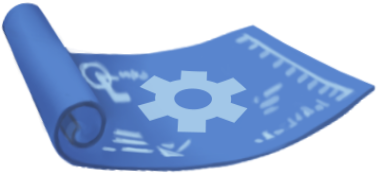
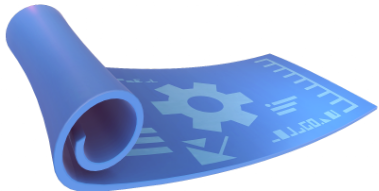
spaceship

diff --git a/SnakeAsianLeague/wwwroot/css/NFTindex/NFTindex_Scholar.css b/SnakeAsianLeague/wwwroot/css/NFTindex/NFTindex_Scholar.css
@@ -464,23 +464,15 @@
     box-shadow: inset 0px 0px 15px 5px rgb(172 159 252 / 70%);
 }
 
-
 .blueprint-type-BG:hover .item-blueprint{
     filter: drop-shadow(0px 0px 15px rgba(172, 159, 252, 0.7));
 }
-
-@keyframes item-icon {
-    0% {
-        transform: translateY(0px);
-    }
-    50% {
-        transform: translateY(-10px);    
-    }
-    100% {
-        transform: translateY(0px);    
-    }
+#blueprint-type-BG-spaceship:hover{
+    box-shadow: inset 0px 0px 15px 5px rgba(159, 209, 252, 0.7);
 }
-
+#blueprint-type-BG-spaceship:hover .item-blueprint{
+    filter: drop-shadow(0px 0px 15px rgba(159, 209, 252, 0.7));
+}
 
 .item-light{
     display: block;
@@ -524,13 +516,28 @@
     }
 }
 
+#item-light-blue{
+    /* left: 55%; */
+    bottom: 48px;
+}
+
 .item-icon{
     position: absolute;
-    transition: all .2s ease-in-out;
     z-index: 2;
     width: 80%;
     transition: all .2s ease-in-out;
     animation: item-icon 5s linear infinite;
+}
+@keyframes item-icon {
+    0% {
+        transform: translateY(0px);
+    }
+    50% {
+        transform: translateY(-10px);    
+    }
+    100% {
+        transform: translateY(0px);    
+    }
 }
 
 .item-light-hover{
@@ -566,7 +573,9 @@
     width: 90%;
     transition: all .2s ease-in-out;
 }
-
+#item-blueprint-02{
+    left: 47%;
+}
 /* 武器動畫 */
 #icon-weapon{
     max-width: 135px;
@@ -598,21 +607,86 @@
         transform: rotateZ(0deg);
     }
 }
-
 /* 飛船動畫 */
 #icon-spaceship {
-    max-width: 200px;
-    top: 25px;
-    left: 8.5%;
+    max-width: 105px;
+    top: 28px;
+    left: 33%;
     transform-origin: left bottom;
     transition: all .2s ease-in-out;
 }
 .blueprint-type-BG:hover #icon-spaceship{
     animation: spaceship-animation 1s ease-in-out 0s forwards,
     spaceship-animation-float 3s linear 1s infinite;
-    transition: all .2s ease-in-out;
+    transition: all .3s ease-in-out;
+
 }
 @keyframes spaceship-animation {
+    0% {
+        transition: all .3s ease-in-out;
+        transform: translateY(0px) scale(0.2);
+        top: -80px;
+        left: -5%;
+        opacity: 0;
+
+    }
+    10% {
+        opacity: 0.5;
+
+    }
+    50% {
+        opacity: 1;
+        top: -30px;
+
+    }
+    80% {
+        filter: drop-shadow(0px 0px 15px rgba(172, 159, 252, 0));
+
+    }
+    100% {
+        top: 28px;
+        left: 33%;
+        transform: translateY(0px) scale(1);
+        opacity: 1;
+        filter: drop-shadow(0px 0px 15px rgba(159, 209, 252, 0.7));
+    }
+}
+@keyframes spaceship-animation-float {
+    0% {
+        transform: translateY(0px)  rotate3d(0, 1, 0, 0deg) scale(1);
+        opacity: 1;
+        /* filter: drop-shadow(0px 0px 15px rgba(159, 209, 252, 0.7)); */
+
+    }
+    50% {
+        transform: translateY(-10px)  rotate3d(0, 1, 0, 0deg) scale(1);
+        opacity: 1;
+        /* filter: drop-shadow(0px 0px 15px rgba(159, 209, 252, 0.7)); */
+
+    }
+    100% {
+        transform: translateY(0px)  rotate3d(0, 1, 0, 0deg) scale(1);
+        opacity: 1;
+        /* filter: drop-shadow(0px 0px 15px rgba(159, 209, 252, 0.7)); */
+
+    }
+}
+
+
+/* 飛船動畫-02 鯊魚*/
+#icon-spaceship-02 {
+    max-width: 200px;
+    top: 25px;
+    left: 8.5%;
+    transform-origin: left bottom;
+    transition: all .2s ease-in-out;
+}
+.blueprint-type-BG:hover #icon-spaceship-02{
+    animation: spaceship-animation-02 1s ease-in-out 0s forwards,
+    spaceship-animation-float-02 3s linear 1s infinite;
+    transition: all .2s ease-in-out;
+}
+@keyframes spaceship-animation-02 {
     0% {
         transition: all .2s ease-in-out;
         transform: rotate3d(0, 1, 0, -240deg) scale(0);
@@ -634,7 +708,7 @@
         filter: drop-shadow(0px 0px 15px rgba(172, 159, 252, 0.7));
     }
 }
-@keyframes spaceship-animation-float {
+@keyframes spaceship-animation-float-02 {
     0% {
         transform: translateY(0px)  rotate3d(0, 1, 0, 0deg) scale(1);
         opacity: 1;
